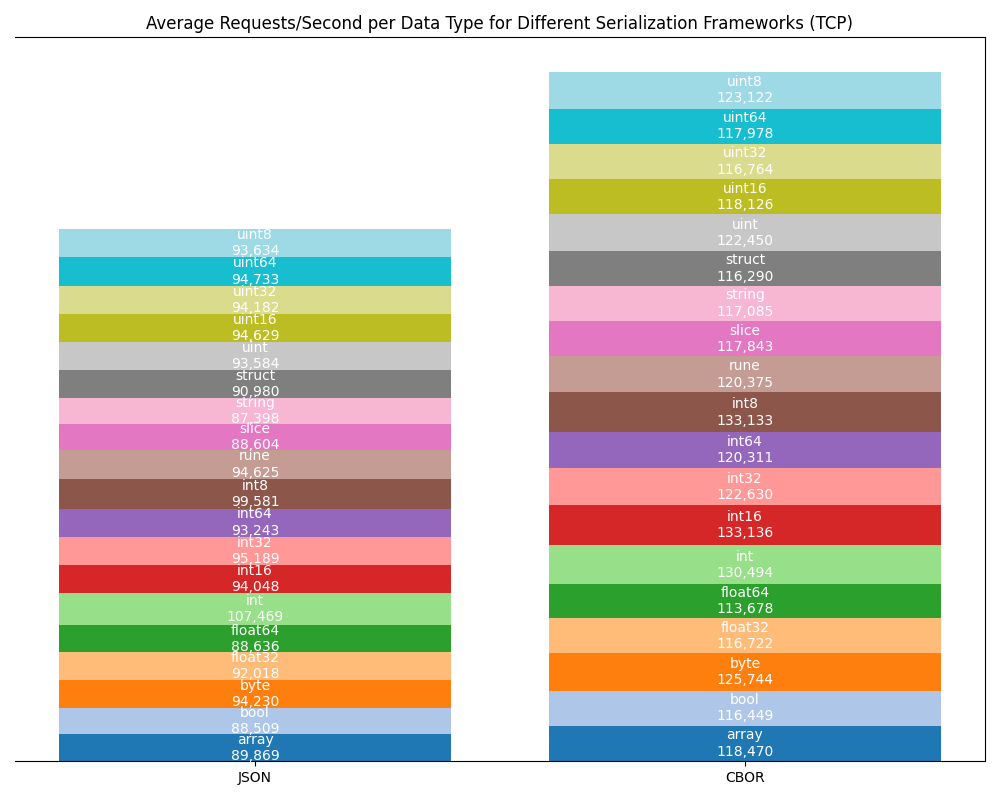
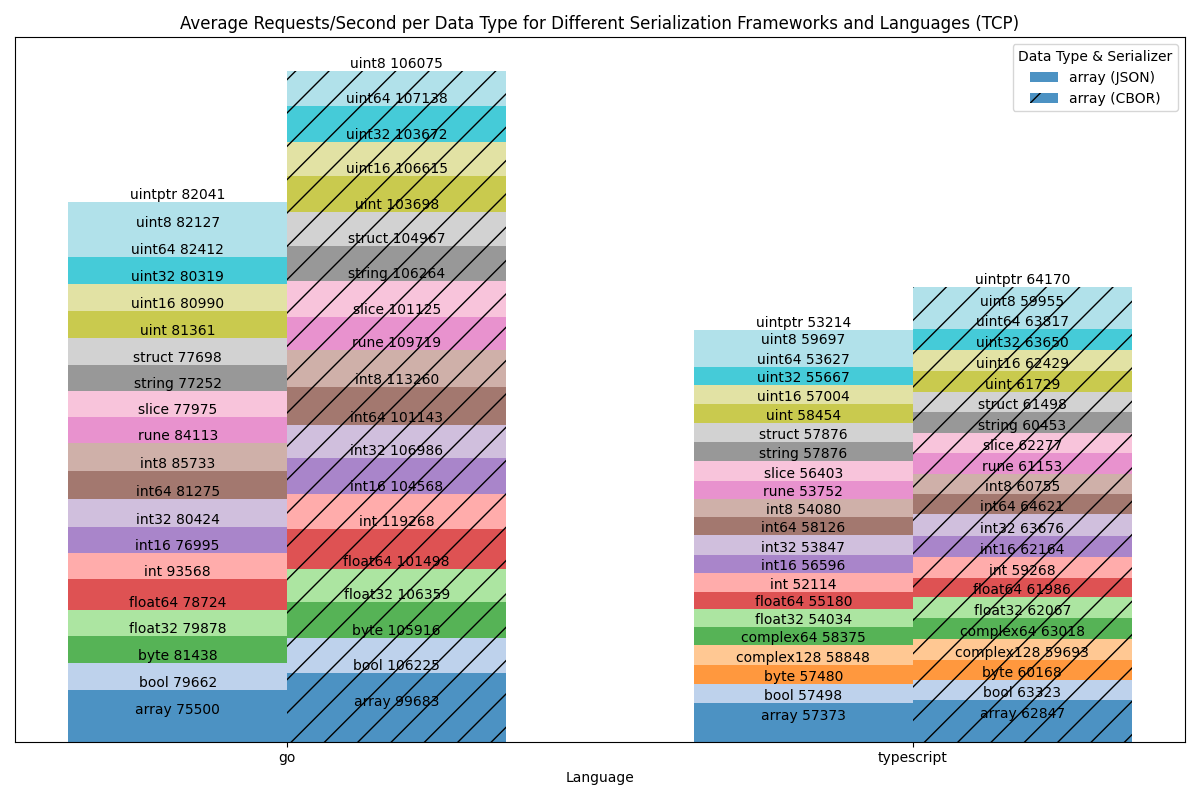
feat: Add TypeScript support to benchmarks

diff --git a/docs/render-bench-graph-rps.py b/docs/render-bench-graph-rps.py
@@ -5,36 +5,56 @@ import matplotlib.pyplot as plt
 def process_data(file_path):
     data = pd.read_csv(file_path)
     data['rps'] = data['runs'].str.extract(r'(\d+)').astype(int)
-    average_rps = data.groupby('data_type')['rps'].mean().reset_index()
-    sorted_average_rps = average_rps.sort_values('data_type').reset_index(drop=True)
+    average_rps = data.groupby(['data_type', 'language'])['rps'].mean().reset_index()
+    sorted_average_rps = average_rps.sort_values(['data_type', 'language']).reset_index(drop=True)
     return sorted_average_rps
 
 def generate_chart(json_data, cbor_data, output_path):
-    common_data_types = json_data[json_data['data_type'].isin(cbor_data['data_type'])]['data_type']
-    filtered_json_rps = json_data[json_data['data_type'].isin(common_data_types)]
-    filtered_cbor_rps = cbor_data[cbor_data['data_type'].isin(common_data_types)]
+    languages = pd.concat([json_data['language'], cbor_data['language']]).unique()
+    data_types = pd.concat([json_data['data_type'], cbor_data['data_type']]).unique()
+    
+    fig, ax = plt.subplots(figsize=(12, 8))
+    bar_width = 0.35
+    opacity = 0.8
 
-    fig, ax = plt.subplots(figsize=(10, 8))
-    json_bottoms = filtered_json_rps['rps'].cumsum() - filtered_json_rps['rps']
-    cbor_bottoms = filtered_cbor_rps['rps'].cumsum() - filtered_cbor_rps['rps']
-    sorted_colors = plt.cm.tab20(np.linspace(0, 1, len(common_data_types)))
+    colors = plt.cm.tab20(np.linspace(0, 1, len(data_types)))
+    json_legend_added = False
+    cbor_legend_added = False
+    
+    for i, language in enumerate(languages):
+        json_language_data = json_data[json_data['language'] == language]
+        cbor_language_data = cbor_data[cbor_data['language'] == language]
+        
+        json_bottom = np.zeros(len(languages))
+        cbor_bottom = np.zeros(len(languages))
+        
+        for j, data_type in enumerate(data_types):
+            if data_type in json_language_data['data_type'].values:
+                json_rps = json_language_data[json_language_data['data_type'] == data_type]['rps'].iloc[0]
+                label = f"{data_type} (JSON)" if not json_legend_added else ""
+                json_legend_added = True  
+                ax.bar(i - bar_width/2, json_rps, bar_width, bottom=json_bottom[i], color=colors[j], label=label, alpha=opacity)
+                json_bottom[i] += json_rps
+                ax.text(i - bar_width/2, json_bottom[i], f'{data_type} {int(json_rps)}', ha='center', va='bottom')
+            
+            if data_type in cbor_language_data['data_type'].values:
+                cbor_rps = cbor_language_data[cbor_language_data['data_type'] == data_type]['rps'].iloc[0]
+                label = f"{data_type} (CBOR)" if not cbor_legend_added else ""
+                cbor_legend_added = True  
+                ax.bar(i + bar_width/2, cbor_rps, bar_width, bottom=cbor_bottom[i], color=colors[j], hatch='/', label=label, alpha=opacity)
+                cbor_bottom[i] += cbor_rps
+                ax.text(i + bar_width/2, cbor_bottom[i], f'{data_type} {int(cbor_rps)}', ha='center', va='bottom')
 
-    # JSON bar
-    for (data_type, rps, bottom, color) in zip(filtered_json_rps['data_type'], filtered_json_rps['rps'], json_bottoms, sorted_colors):
-        ax.bar('JSON', rps, bottom=bottom, color=color)
-        rps_formatted = f"{int(round(rps)):,}"
-        ax.text('JSON', bottom + rps/2, f'{data_type}\n{rps_formatted}', ha='center', va='center', color='white')
-
-    # CBOR bar
-    for (data_type, rps, bottom, color) in zip(filtered_cbor_rps['data_type'], filtered_cbor_rps['rps'], cbor_bottoms, sorted_colors):
-        ax.bar('CBOR', rps, bottom=bottom, color=color)
-        rps_formatted = f"{int(round(rps)):,}"
-        ax.text('CBOR', bottom + rps/2, f'{data_type}\n{rps_formatted}', ha='center', va='center', color='white')
-
-    ax.set_title('Average Requests/Second per Data Type for Different Serialization Frameworks (TCP)')
     ax.yaxis.set_visible(False)
-    plt.tight_layout()
 
+    ax.set_xlabel('Language')
+    ax.set_ylabel('Average Requests per Second')
+    ax.set_title('Average Requests/Second per Data Type for Different Serialization Frameworks and Languages (TCP)')
+    ax.set_xticks(np.arange(len(languages)))
+    ax.set_xticklabels(languages)
+    ax.legend(title='Data Type & Serializer')
+
+    plt.tight_layout()
     plt.savefig(output_path)
 
 if __name__ == '__main__':
